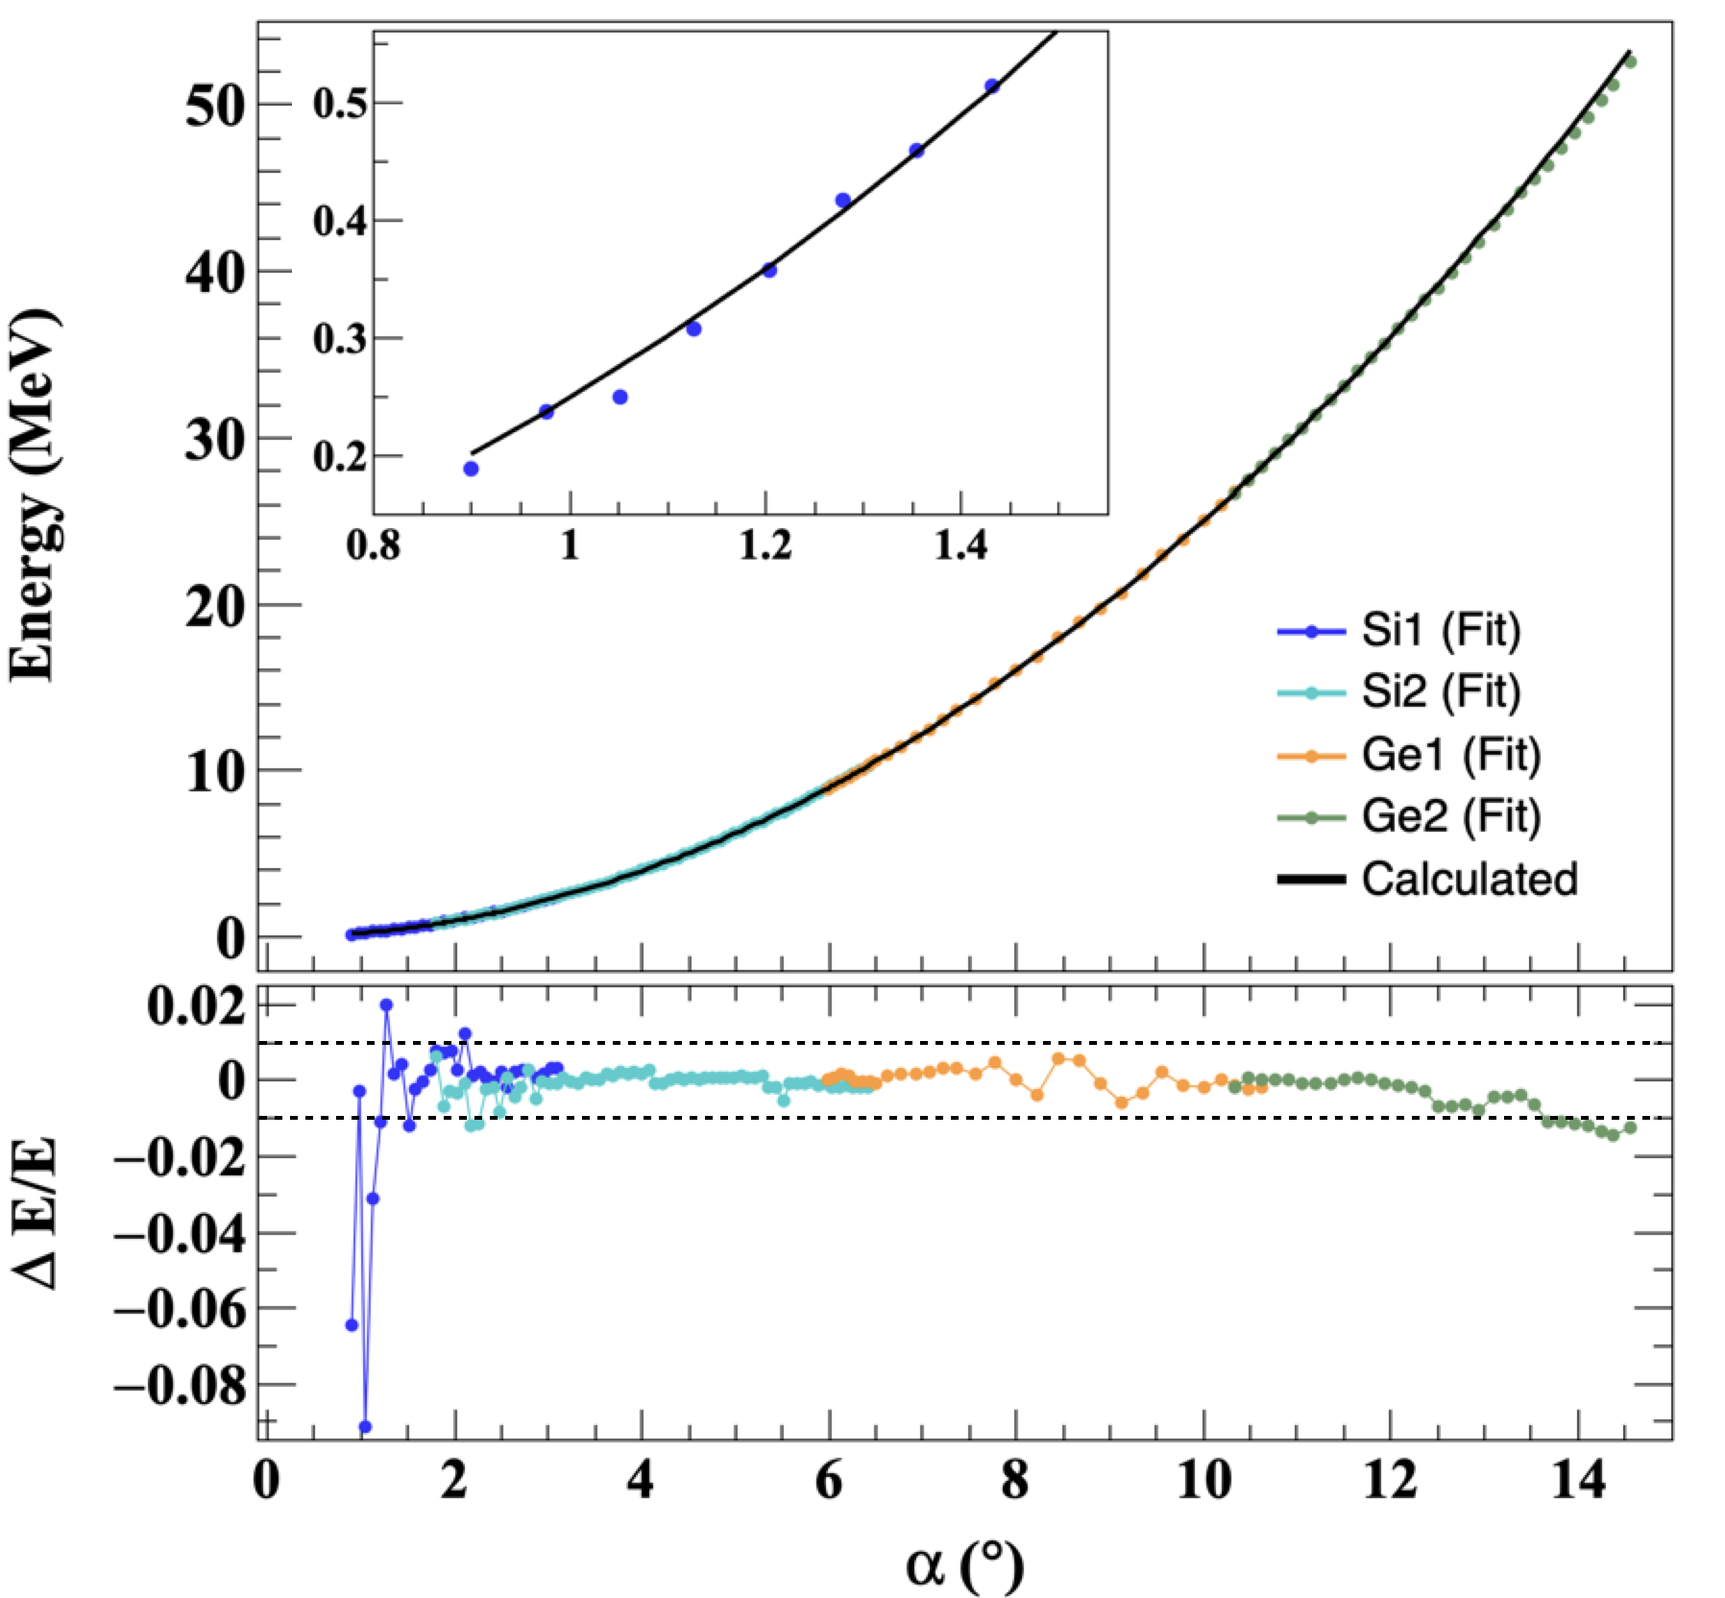
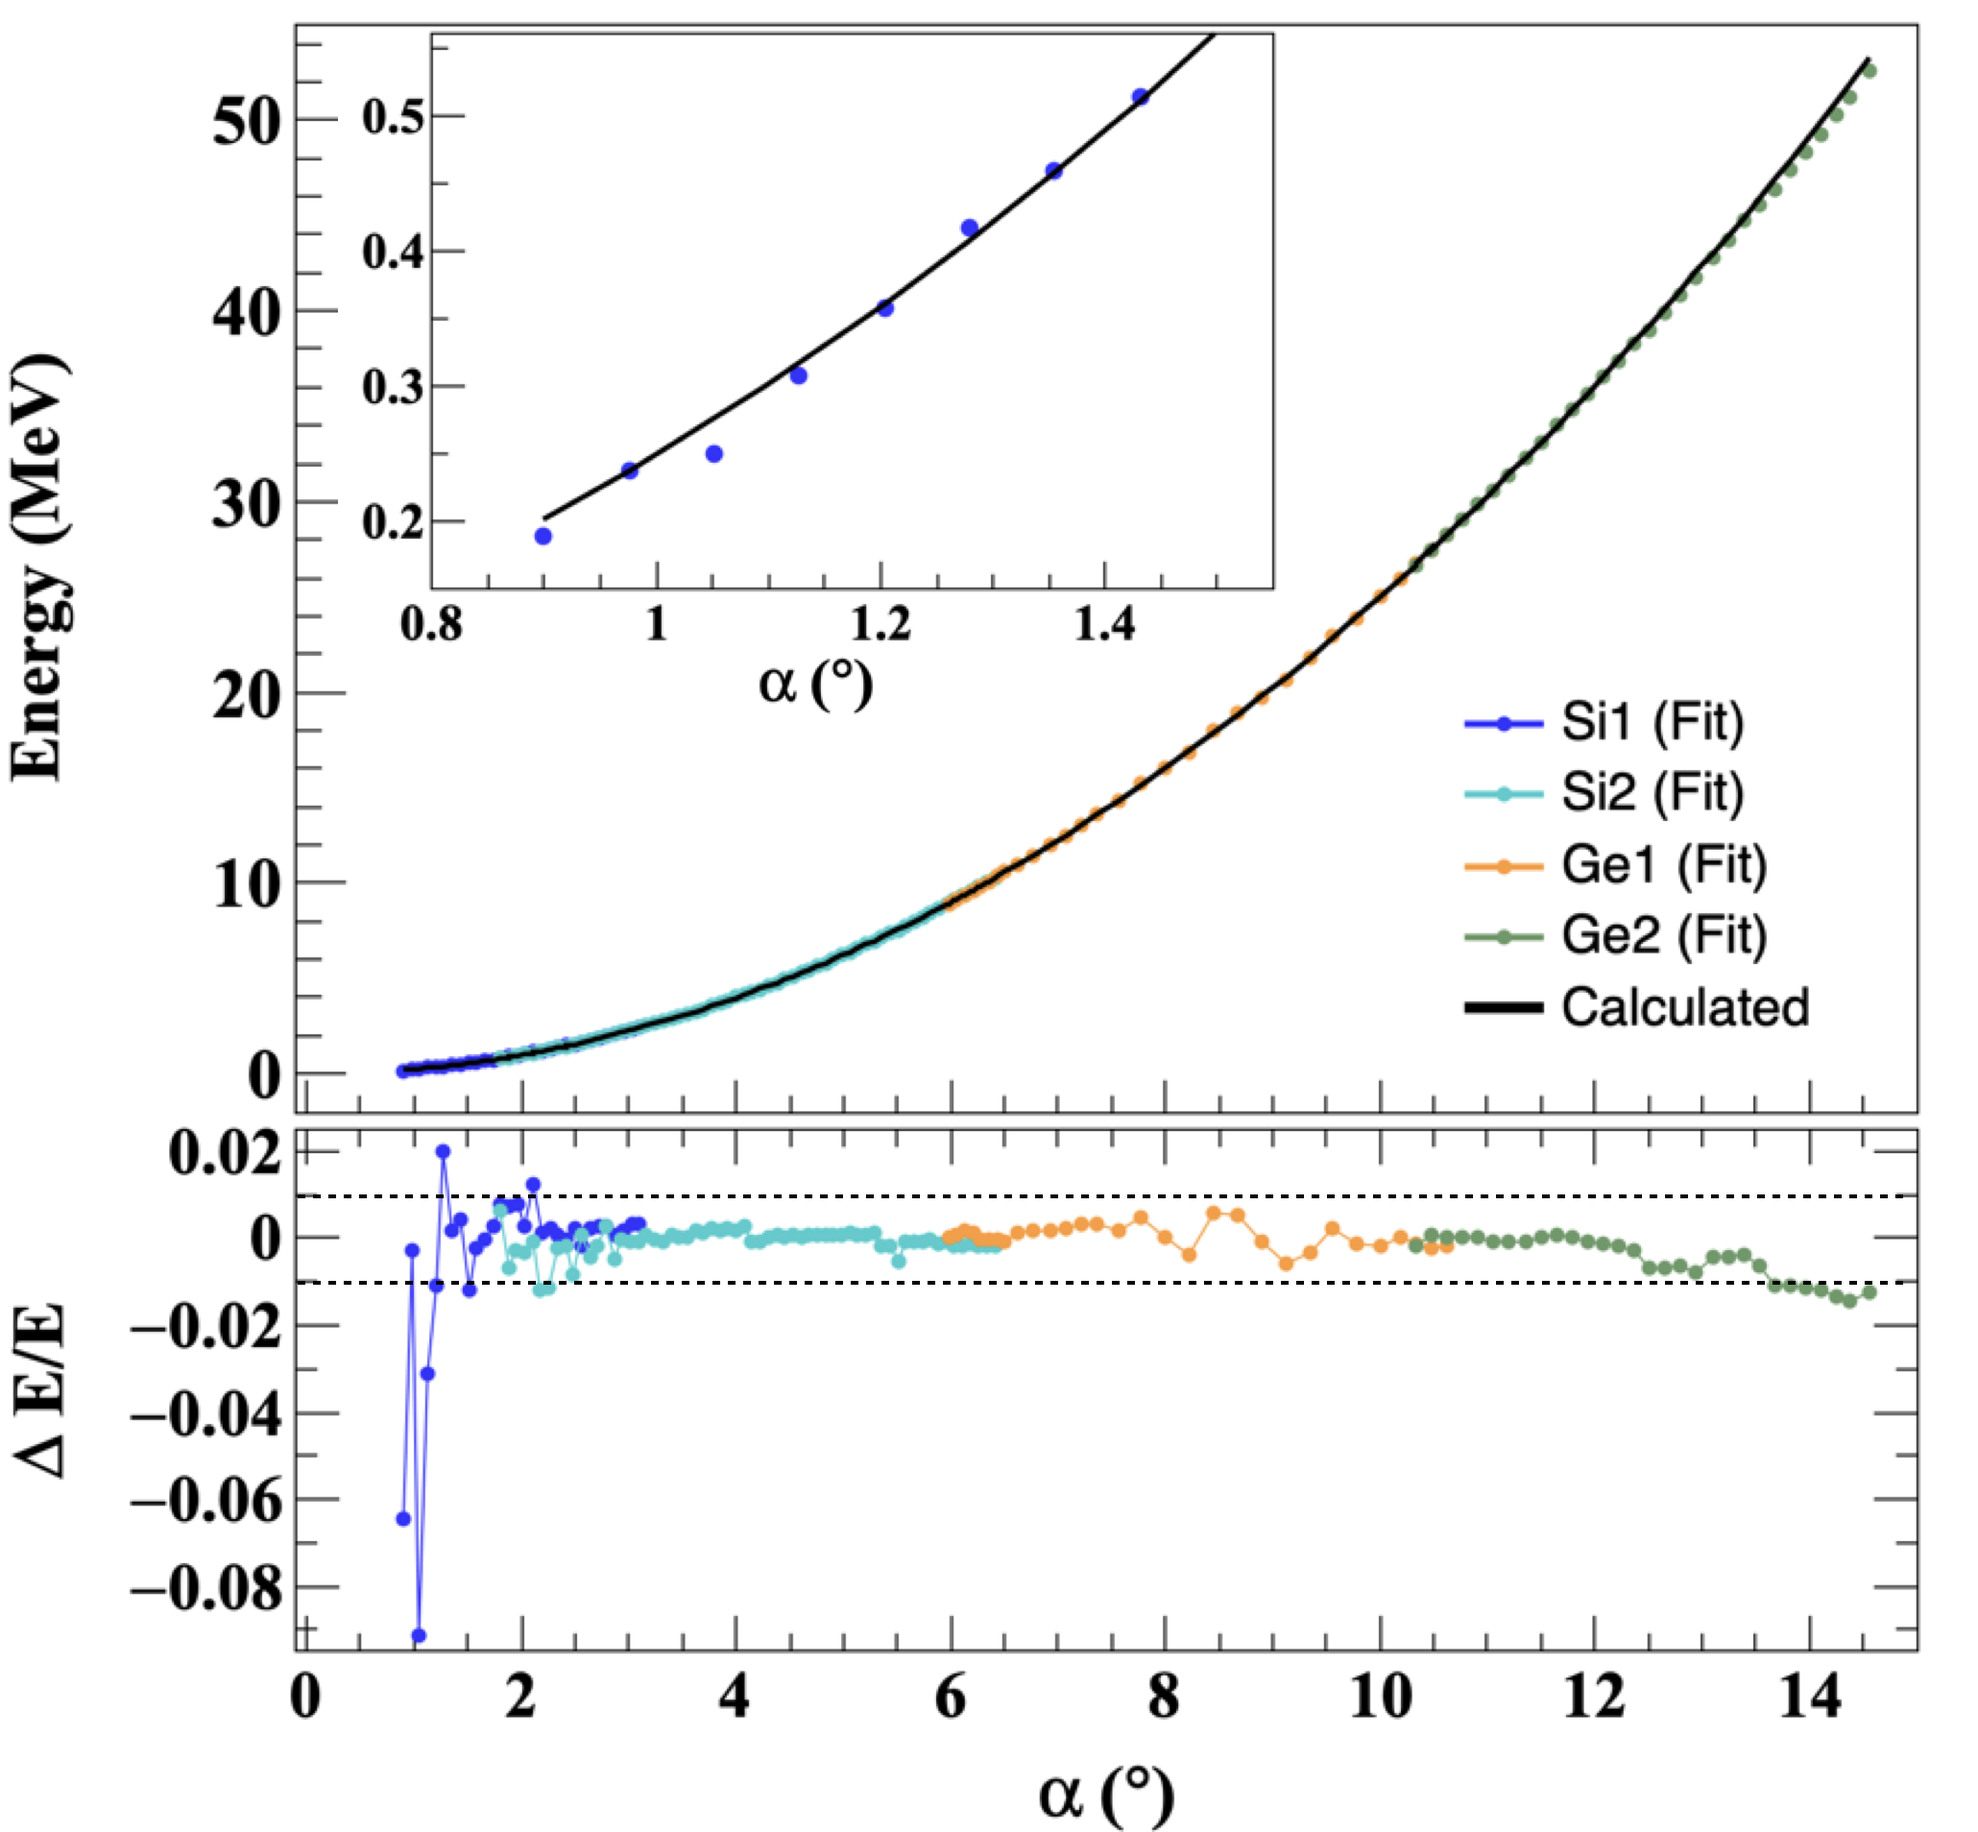
backup

diff --git a/daq/nim.tex b/daq/nim.tex
@@ -542,6 +542,25 @@ The estimated energy losses of $\alpha$ particles incident at a normal angle to
 the detector surface are listed in Tab. \ref{tab:dead_layer} for each sensor.
 The effective energy deposit in the fiducial volume is then corrected based on the recoil angle, where each strip is located.
 
+Secondly, the gain setting of each readout channel is optimized for the energy range covered by the corresponding strip.
+The gain difference varies by up to a factor $\mathtt{\sim}$10.
+Thus, the resolution is worse at large recoil angles than at small angles, as shown in Fig. \ref{fig:alpha_spectrum}.
+The minor decay modes can't be recognized in Fig. \ref{fig:alpha_spectrum} (a), while they are clearly seen in Fig. \ref{fig:alpha_spectrum} (b).
+The worse resolution brings larger uncerntainty in the calibration, since only three energy points can be used.
+\begin{table}[h]
+  \label{tab:dead_layer}
+  \caption{Energy loss (\si{\keV}) of $\alpha$ in the protection layer (\SI{90}{\degree}).}
+  \centering
+  \begin{tabular}{cccccc}
+    \hline
+    \(E_{\alpha} (keV)\) & \(\Delta E_{Si1}\) & \(\Delta E_{Si2}\) & \(\Delta E_{Ge1}\) & \(\Delta E_{Ge2}\) \\
+    \hline
+    5156.59 & 11.51 & 11.51 & 110.00 & 111.00 \\
+    5485.56 & 11.01 & 11.01 & 105.00 & 106.00 \\
+    5804.83 & 10.52 & 10.52 & 99.00  & 100.00 \\
+    \hline
+  \end{tabular}
+\end{table}
 \begin{figure*}[tb!]
   \centering
   \includegraphics[width=0.7\textwidth]{./alpha_response.png}
@@ -549,26 +568,6 @@ The effective energy deposit in the fiducial volume is then corrected based on t
   \label{fig:alpha_spectrum}
 \end{figure*}
 
-\begin{table}[htb]
-\label{tab:dead_layer}
-\caption{Energy loss (\si{\keV}) of $\alpha$ in the protection layer (\SI{90}{\degree}).}
-\centering
-\begin{tabular}{cccccc}
-\hline
-\(E_{\alpha} (keV)\) & \(\Delta E_{Si1}\) & \(\Delta E_{Si2}\) & \(\Delta E_{Ge1}\) & \(\Delta E_{Ge2}\) \\
-\hline
-5156.59 & 11.51 & 11.51 & 110.00 & 111.00 \\
-5485.56 & 11.01 & 11.01 & 105.00 & 106.00 \\
-5804.83 & 10.52 & 10.52 & 99.00  & 100.00 \\
-\hline
-\end{tabular}
-\end{table}
-
-Secondly, the gain setting of each readout channel is optimized for the energy range covered by the corresponding strip.
-The gain difference varies by up to a factor $\mathtt{\sim}$10.
-Thus, the resolution is worse at large recoil angles than at small angles, as shown in Fig. \ref{fig:alpha_spectrum}.
-The minor decay modes can't be recognized in Fig. \ref{fig:alpha_spectrum} (a), while they are clearly seen in Fig. \ref{fig:alpha_spectrum} (b).
-The worse resolution brings larger uncerntainty in the calibration, since only three energy points can be used.
 
 To minimize this uncertainty, a common gain setting, which is optimized for the separation of the \(\alpha\) peaks, is set for all channels.
 The calibration is carried out indirectly as follows:
@@ -591,7 +590,7 @@ thus linear fitting is adopted in all the calibration steps.
 The fitting parameters from the last step are used to convert ADC counts into
 energy values in the reconstruction.
 % The achieved precsion of the calibration is about \SI{0.12}{\percent}.
-\begin{figure}[htb!]
+\begin{figure}[h!]
   \centering
   \includegraphics[width=0.42\textwidth]{./linearity.png}
   \caption{Electronic linearity of a typical recoil detector channel.}
@@ -599,7 +598,7 @@ energy values in the reconstruction.
 \end{figure}
 
 \subsection{Clustering}
-\label{clustering}
+\label{sec:clustering}
 
 Clustering is necessary to correctly reconstruct the deposited energy:
 1) charge sharing is an intrinsic characteristic of the solid-state strip
@@ -609,13 +608,6 @@ The results from the simulation and the beam commissioning both show that more
 than \SI{50}{\percent} of the tracks that hit the Ge2 sensor have a hit multiplicity
 larger than 1. The fractions of different hit multiplicities in the four
 recoil sensors are listed in Tab. \ref{tab:multiplicity}.
-% \begin{figure}[htbp]
-%   \centering
-%   \includegraphics[width=0.45\textwidth]{./multiplicity.png}
-%   \caption{Fraction of the hit multiplicity on each sensor of the recoil detector.}
-%   \label{fig:multiplicity}
-% \end{figure}
-
 \begin{table}[htbp]
   \label{tab:multiplicity}
   \centering
@@ -833,7 +825,7 @@ calibration ($\sim$\SI{20}{\keV} FWHM at \SI{5}{\MeV}) is much smaller than the
 extracted width of the elastic peak from the beam data ($\sim$\SI{330}{\keV} at \SI{5}{\MeV}).
 Thus, the energy resolution in the experiment is mainly dominated by the finite
 angular converage of the strip and the thickness of the cluster jet target along the beam direction.
-\begin{figure}[b!]
+\begin{figure}[tb!]
   \centering
   \includegraphics[width=0.45\textwidth]{./e_fit.png}
   \caption{Extraction of the elastic peak spectrum using the extended binned
@@ -900,7 +892,7 @@ Both bands are generated by the elastically-recoiled protons, with: 1) band A fr
 the the interaction of the beam particle with the residual gas in the beam pipe; 2)
 band B from the events in which the recoil protons hit the edge of the strip and
 only deposit part of their energy in the sensor.
-\begin{figure}[b!]
+\begin{figure}[tb!]
   \centering
   \includegraphics[width=0.42\textwidth]{./tofe_tsigma.png}
   % \includegraphics[width=0.4\textwidth]{./tofe_cut.png}
@@ -938,7 +930,7 @@ of the TOF-E relation and deteriates rapidly.
 The TOF-E curve is combined with a $[-5\sigma_{TOF}, 5\sigma_{TOF}]$ window to select the elastic scattering events on each strip.
 A clean energy spectrum is obtained after the selection and the elastic peak shows up clearly.
 The results for three strips at different recoil angles are shown in Fig. \ref{fig:cut}.
-\begin{figure}[b!]
+\begin{figure}[tb!]
   \centering
   \includegraphics[width=0.45\textwidth]{./tofe_cut_comparison.png}
   \caption{The energy spectra of TOF-E selected events (black dots) from strips at three recoil angles. The black lines are the spectra from all events and the grey spectra are from the events rejected since they had no coincidence with the forward detector.}
@@ -978,7 +970,7 @@ This limits the lower range of the $|t|$ measurement to $\sim$\SI{0.001}{\tmom} 
 The spectra of the suppressed background events on the strips which are fully covered by the
 forward detector can be used as the template model to describe the background
 shape for strips at smaller recoil angles.
-Thus, the lower range of the $|t|$ measurement can be extended below the limit of set by the TOF-E selection method.
+Thus, the lower range of the $|t|$ measurement can be extended below the limit set by the TOF-E selection method.
 The scaling parameter of the background model is first estimated with the upper
 sideband of the energy spectrum, and a combined fit with the summed
 model of the Crystal-Ball function and the background template is then carried
@@ -987,6 +979,15 @@ out over the fully energy range to extract the elastic peak spectrum.
 % A limit is observed around \SI{350}{\keV}, which corresponds to $|t| \approx  \SI{0.0007}{\tmom}$.
 The limit of the method is reflected in the extracted elastic peak energy on each strip as shown in
 Fig. \ref{fig:measured_vs_calculated}.
+\begin{figure}[tb!]
+  \centering
+  \includegraphics[width=0.45\textwidth]{./e_vs_alpha_combined.png}
+  \caption{
+    Comparison of the measured (color dots) and the calculated (black line)
+    recoil energy on the strip center at different recoil angles. The relative
+    difference is drawn in the bottom plot. The results are for $P_{beam} = \SI{2.2}{\momentum}$.}
+  \label{fig:measured_vs_calculated}
+\end{figure}
 For the strips where the full elastic peak spectrum is extracted and described accurately
 by the Crystal-Ball function, the relative difference between the measured and
 the calculated recoil energy based on kinematic relations is within \SI{\pm 1}{\percent}.
